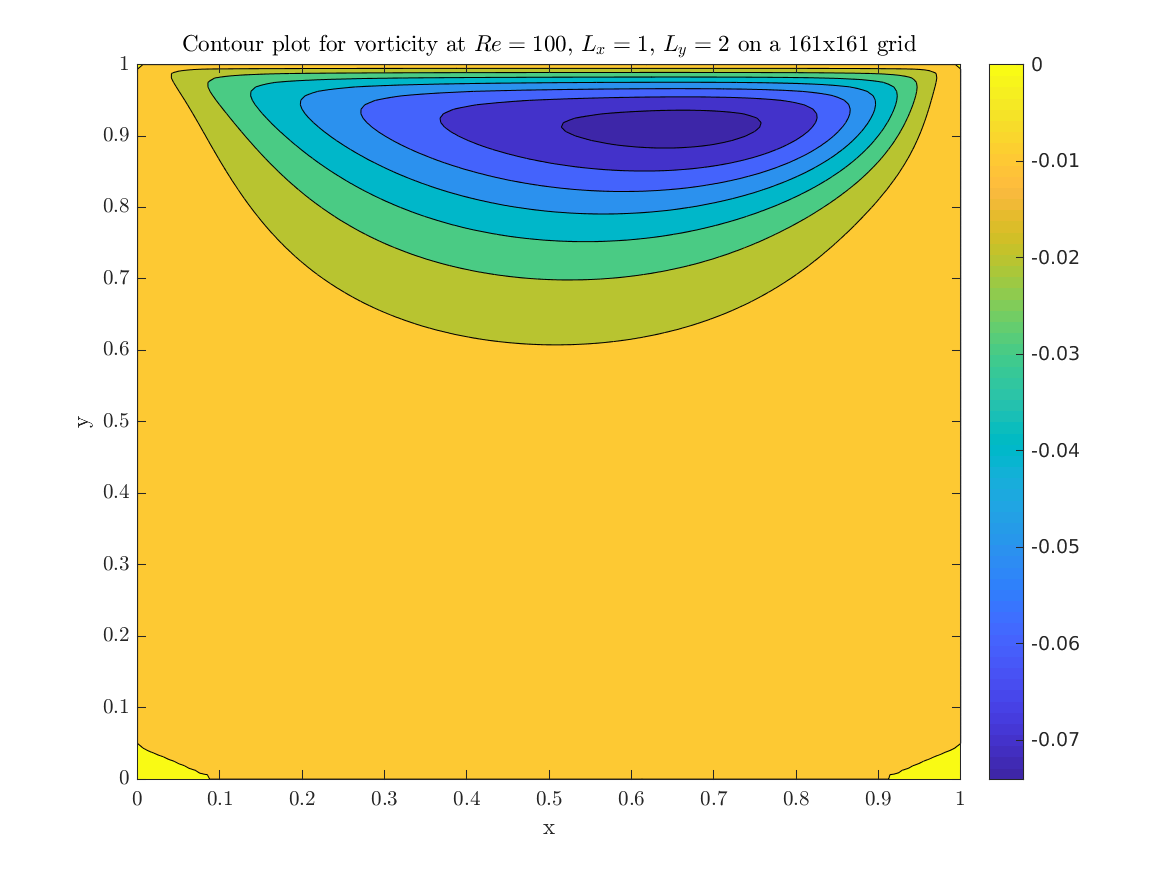
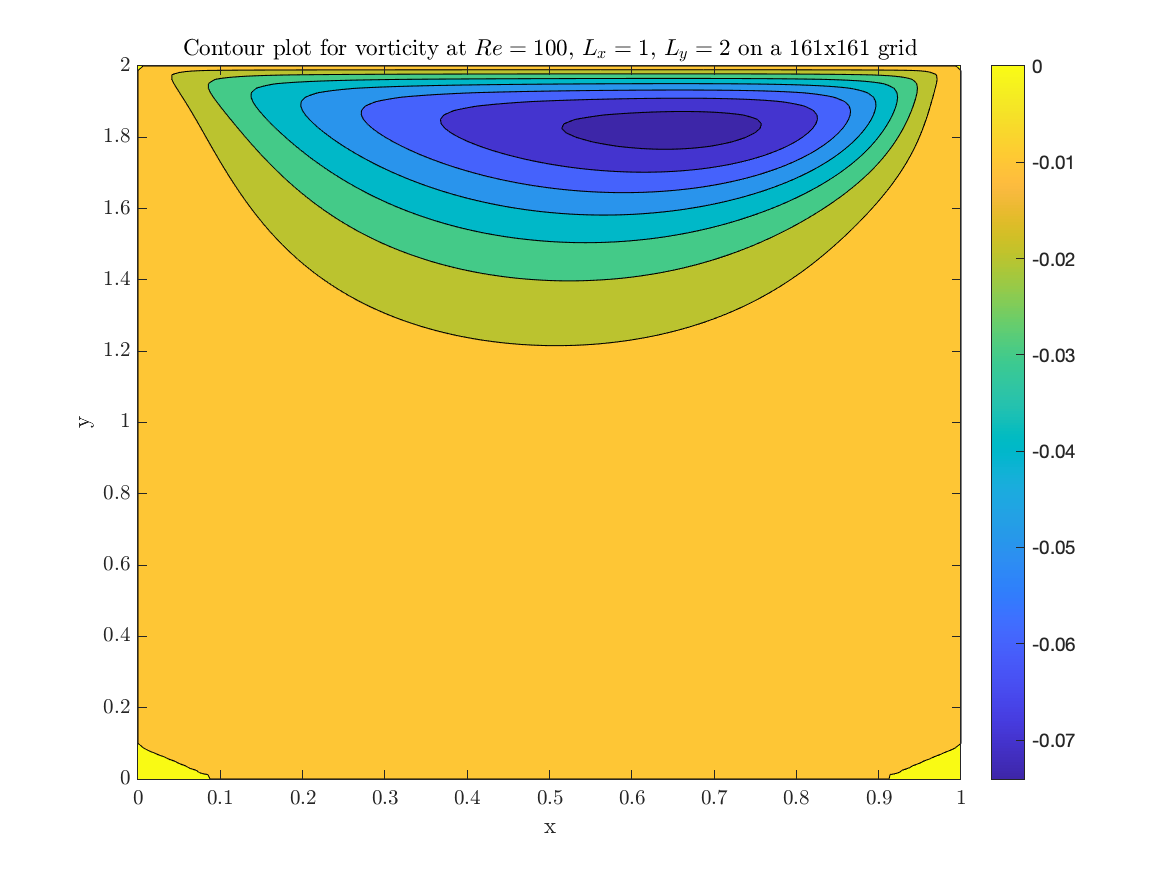
fixed matlab plotting script

diff --git a/GeneratePlots.m b/GeneratePlots.m
@@ -147,6 +147,8 @@ for i=1:length(filenames2)
     
     xgrid = linspace(0,Lx,Nx);
     ygrid = linspace(0,Ly,Ny);
+    
+    [xcoord,ycoord] = meshgrid(xgrid,ygrid);
 
     figure(5+i)
     contourf(xcoord,ycoord,s);
